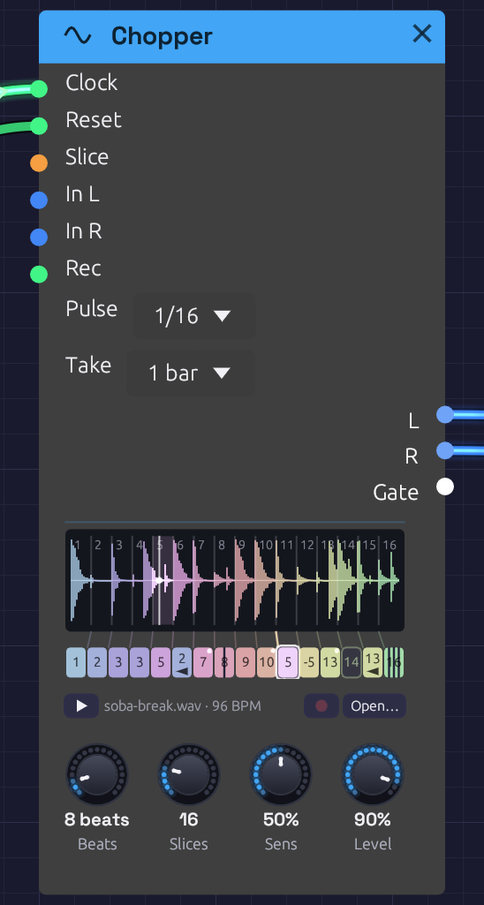
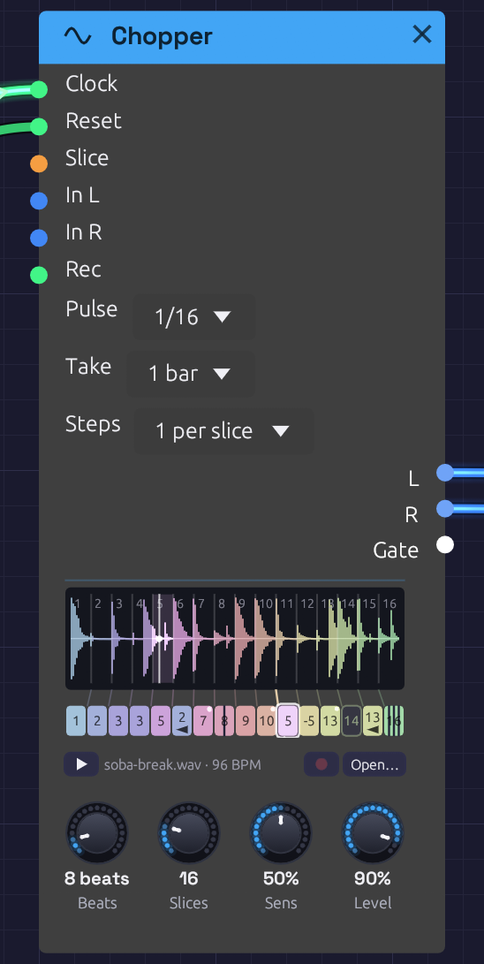
[Phase 14] Chopper: a pattern longer than the break (Steps)
- Steps (1 to 4 per slice) makes the row a pass over the break for each,
  wrapping over it again; a step past the first pass plays its slice in
  that pass until told otherwise, so an unedited row still plays the
  break back seamlessly. Never more than 64 steps
- Appended after Rec Button, defaulting to 1 per slice: old patches play
  as before
- The face draws a line of steps per pass under the same slices, and the
  time tick rides the line playing; the step menu gains "Same as pass n"
  and shuffles only its own pass
- Cut-Up's break frame grows for the new row; manual documents Steps

Closes #201

Claude-Session: https://claude.ai/code/session_012S1cpHsVYgDZKhaCwL9Naf

diff --git a/src/graph/chopper_display.rs b/src/graph/chopper_display.rs
@@ -15,6 +15,9 @@
 //!   die's dot in its corner, as big as the chance.
 //! - While it plays, the slice heard glows on the waveform, a playhead
 //!   rides it, and a tick on the row shows where the loop is in time.
+//! - A row of two, three or four steps per slice wraps into a line for each
+//!   pass over the break, the fan joining the slices to the first; the
+//!   lines below read straight down as the same slices' later turns.
 //!
 //! Click a step to rest it; drag it up or down to choose its slice;
 //! Shift+click repeats, Alt+click reverses, Ctrl+click sets its chance, and
@@ -178,7 +181,12 @@ pub fn chopper_display(ui: &mut egui::Ui, node_id: NodeId, graph: &SynthGraph, u
     let width = 4.0 * 44.0 * z + 3.0 * gap - 8.0 * z;
     let wave_height = 58.0 * z;
     let fan_height = 9.0 * z;
-    let row_height = 17.0 * z;
+    // A line of steps for each pass over the break
+    let passes = Chopper::passes(params.value(Chopper::PARAM_PASSES), count);
+    let steps = passes * count;
+    let line_height = if passes > 1 { 14.0 * z } else { 17.0 * z };
+    let line_gap = 4.0 * z;
+    let row_height = passes as f32 * line_height + (passes - 1) as f32 * line_gap;
 
     ui.add_space(8.0 * z);
     let (rect, response) = ui.allocate_exact_size(Vec2::new(width, wave_height + fan_height + row_height), Sense::hover());
@@ -385,14 +393,17 @@ pub fn chopper_display(ui: &mut egui::Ui, node_id: NodeId, graph: &SynthGraph, u
 
     // The fan: each slice to its step
     let cell_width = row_rect.width() / count as f32;
-    let cell_x = |step: usize| row_rect.left() + step as f32 * cell_width;
+    let cell_x = |step: usize| row_rect.left() + (step % count) as f32 * cell_width;
+    let line_top = |line: usize| row_rect.top() + line as f32 * (line_height + line_gap);
+    // The slice playing, whichever pass it's in
+    let slot_playing = playing.step.filter(|_| playing.phase.is_some()).map(|step| step % count);
     let fan_top = wave_rect.bottom();
     let fan_bottom = row_rect.top();
     for index in 0..count {
         let (from, _) = span_of(index);
         let top = Pos2::new(x_at(from), fan_top);
         let bottom = Pos2::new(cell_x(index) + 0.5 * z, fan_bottom);
-        let lit = playing.step == Some(index) && playing.phase.is_some();
+        let lit = slot_playing == Some(index);
         let color = slice_color(index, count).gamma_multiply(if lit { 0.9 } else { 0.25 });
         if index > 0 || slices.is_marked() {
             painter.line_segment([top, bottom], Stroke::new(if lit { 1.2 * z } else { 0.8 * z }, color));
@@ -401,11 +412,11 @@ pub fn chopper_display(ui: &mut egui::Ui, node_id: NodeId, graph: &SynthGraph, u
 
     // The steps
     let mut edits = Vec::new();
-    for index in 0..count.min(MAX_STEPS) {
+    for index in 0..steps.min(MAX_STEPS) {
         let step = params.step(index);
         let chance = params.chance(index);
         let slice = step.slice_of(index, count);
-        let cell = Rect::from_min_size(Pos2::new(cell_x(index), row_rect.top()), Vec2::new(cell_width, row_rect.height())).shrink2(Vec2::new(0.5 * z, 0.0));
+        let cell = Rect::from_min_size(Pos2::new(cell_x(index), line_top(index / count)), Vec2::new(cell_width, line_height)).shrink2(Vec2::new(0.5 * z, 0.0));
         let here = playing.step == Some(index) && playing.phase.is_some();
         draw_step(&painter, cell, step, slice, count, chance, here, z);
 
@@ -442,25 +453,29 @@ pub fn chopper_display(ui: &mut egui::Ui, node_id: NodeId, graph: &SynthGraph, u
             ui.ctx().data_mut(|data| data.insert_temp(drag_id, (from, moved)));
             let to = (from + (moved / DRAG_PER_SLICE).round()).rem_euclid(count as f32) as usize;
             if to != slice {
-                let next = Step { plays: true, slice: own_or(index, to), ..step };
+                let next = Step { plays: true, slice: own_or(index, to, count), ..step };
                 edits.push(edit(node_id, format!("{what} plays slice {}", to + 1), vec![params.set_step(index, next)]));
             }
         }
 
+        let pass = if passes > 1 { format!(" (pass {} of {passes})", index / count + 1) } else { String::new() };
         let hint = format!(
-            "{what}: {}\nClick to {} · drag up or down for another slice\nShift+click repeats · Alt+click reverses · Ctrl+click chance",
+            "{what}{pass}: {}\nClick to {} · drag up or down for another slice\nShift+click repeats · Alt+click reverses · Ctrl+click chance",
             describe(step, slice, chance),
             if step.plays { "rest" } else { "play" },
         );
         let response = response.on_hover_text(hint);
-        response.context_menu(|ui| step_menu(ui, node_id, &params, index, step, chance, count, &mut edits));
+        response.context_menu(|ui| step_menu(ui, node_id, &params, index, step, chance, count, steps, &mut edits));
     }
 
-    // Where the loop is, in time
+    // Where the loop is, in time, under the line of the pass it's in
     if let Some(phase) = playing.phase {
-        let x = row_rect.left() + phase * row_rect.width();
+        let along = phase.clamp(0.0, 1.0) * passes as f32;
+        let line = (along as usize).min(passes - 1);
+        let x = row_rect.left() + (along - line as f32) * row_rect.width();
+        let bottom = line_top(line) + line_height;
         painter.add(Shape::convex_polygon(
-            vec![Pos2::new(x - 2.5 * z, row_rect.bottom() + 3.0 * z), Pos2::new(x + 2.5 * z, row_rect.bottom() + 3.0 * z), Pos2::new(x, row_rect.bottom())],
+            vec![Pos2::new(x - 2.5 * z, bottom + 3.0 * z), Pos2::new(x + 2.5 * z, bottom + 3.0 * z), Pos2::new(x, bottom)],
             Color32::WHITE.gamma_multiply(0.8),
             Stroke::NONE,
         ));
@@ -542,9 +557,10 @@ pub fn chopper_display(ui: &mut egui::Ui, node_id: NodeId, graph: &SynthGraph, u
     responses
 }
 
-/// The slice field for step `index` playing slice `to`: 0 for its own.
-fn own_or(index: usize, to: usize) -> u8 {
-    if to == index { 0 } else { (to + 1) as u8 }
+/// The slice field for step `index` playing slice `to` of `count`: 0 for
+/// its own, the slice whose turn it takes.
+fn own_or(index: usize, to: usize, count: usize) -> u8 {
+    if to == index % count.max(1) { 0 } else { (to + 1) as u8 }
 }
 
 /// A step, said in words.
@@ -616,7 +632,7 @@ fn draw_step(painter: &egui::Painter, cell: Rect, step: Step, slice: usize, coun
 
 /// A step's right-click menu: everything about how it plays.
 #[allow(clippy::too_many_arguments)]
-fn step_menu(ui: &mut egui::Ui, node_id: NodeId, params: &Params, index: usize, step: Step, chance: f32, count: usize, edits: &mut Vec<SynthResponse>) {
+fn step_menu(ui: &mut egui::Ui, node_id: NodeId, params: &Params, index: usize, step: Step, chance: f32, count: usize, steps: usize, edits: &mut Vec<SynthResponse>) {
     let what = format!("Step {}", index + 1);
     ui.label(egui::RichText::new(&what).strong());
     ui.separator();
@@ -665,7 +681,7 @@ fn step_menu(ui: &mut egui::Ui, node_id: NodeId, params: &Params, index: usize, 
         for slice in 0..count {
             let text = egui::RichText::new(format!("{:>2}", slice + 1)).color(slice_color(slice, count));
             if ui.selectable_label(current == slice, text).clicked() {
-                set(format!("{what} plays slice {}", slice + 1), Step { plays: true, slice: own_or(index, slice), ..step }, edits);
+                set(format!("{what} plays slice {}", slice + 1), Step { plays: true, slice: own_or(index, slice, count), ..step }, edits);
                 ui.close_menu();
             }
             if (slice + 1) % 8 == 0 {
@@ -674,21 +690,33 @@ fn step_menu(ui: &mut egui::Ui, node_id: NodeId, params: &Params, index: usize, 
         }
     });
     ui.separator();
-    if ui.add_enabled(!step.is_plain(index, count) || chance > 0.0, egui::Button::new(format!("Back to slice {}, as it was", index + 1))).clicked() {
+    if ui.add_enabled(!step.is_plain(index, count) || chance > 0.0, egui::Button::new(format!("Back to slice {}, as it was", index % count + 1))).clicked() {
         edits.push(edit(node_id, format!("Reset {what}"), vec![params.set_step(index, Step::DEFAULT), params.set_chance(index, 0.0)]));
         ui.close_menu();
     }
     ui.separator();
-    // The whole row
-    if ui.button("Shuffle the slices").on_hover_text("Every step plays a slice at random, each slice once").clicked() {
+    // The pass it's in, and the whole row
+    let first = index / count * count;
+    let pass = first / count + 1;
+    if first > 0 {
+        let before = pass - 1;
+        if ui.button(format!("Same as pass {before}")).on_hover_text("Copies every step of the pass before into this one, to vary from there").clicked() {
+            let mut changes: Vec<(String, f32)> = (first..first + count).map(|k| params.set_step(k, params.step(k - count))).collect();
+            changes.extend((first..first + count).map(|k| params.set_chance(k, params.chance(k - count))));
+            edits.push(edit(node_id, format!("Pass {pass} as pass {before}"), changes));
+            ui.close_menu();
+        }
+    }
+    let shuffle = if steps > count { format!("Shuffle the slices in pass {pass}") } else { "Shuffle the slices".to_string() };
+    if ui.button(&shuffle).on_hover_text("Every step plays a slice at random, each slice once").clicked() {
         let order = shuffled(count, ui.input(|i| i.time).to_bits());
-        let changes = (0..count).map(|k| params.set_step(k, Step { plays: true, slice: own_or(k, order[k]), ..params.step(k) })).collect();
-        edits.push(edit(node_id, "Shuffle the slices", changes));
+        let changes = (first..first + count).map(|k| params.set_step(k, Step { plays: true, slice: own_or(k, order[k - first], count), ..params.step(k) })).collect();
+        edits.push(edit(node_id, shuffle, changes));
         ui.close_menu();
     }
     if ui.button("Reset every step").on_hover_text("Back to the break as it was: each step its own slice, once, forwards").clicked() {
-        let mut changes: Vec<(String, f32)> = (0..count).map(|k| params.set_step(k, Step::DEFAULT)).collect();
-        changes.extend((0..count).map(|k| params.set_chance(k, 0.0)));
+        let mut changes: Vec<(String, f32)> = (0..steps).map(|k| params.set_step(k, Step::DEFAULT)).collect();
+        changes.extend((0..steps).map(|k| params.set_chance(k, 0.0)));
         edits.push(edit(node_id, "Reset every step", changes));
         ui.close_menu();
     }
@@ -751,8 +779,11 @@ mod tests {
 
     #[test]
     fn test_a_step_names_its_own_slice_as_none() {
-        assert_eq!(own_or(3, 3), 0);
-        assert_eq!(own_or(3, 0), 1);
-        assert_eq!(Step { slice: own_or(5, 9), ..Step::DEFAULT }.slice_of(5, 16), 9);
+        assert_eq!(own_or(3, 3, 16), 0);
+        assert_eq!(own_or(3, 0, 16), 1);
+        assert_eq!(Step { slice: own_or(5, 9, 16), ..Step::DEFAULT }.slice_of(5, 16), 9);
+        // A step in the second pass owns the slice whose turn it takes
+        assert_eq!(own_or(19, 3, 16), 0);
+        assert_eq!(Step { slice: own_or(19, 4, 16), ..Step::DEFAULT }.slice_of(19, 16), 4);
     }
 }

diff --git a/src/modules/chopper.rs b/src/modules/chopper.rs
@@ -14,6 +14,12 @@
 //! so the break varies itself, as a chopped break does in a producer's
 //! hands.
 //!
+//! The row can be two, three or four steps per slice, longer than the
+//! break: it wraps over the break again, a pass at a time, so a 2-bar
+//! break plays under a 4-bar pattern whose second half is a variation of
+//! its own. Step 17 of 32 over 16 slices takes slice 1's turn in the
+//! second pass, and plays slice 1 until it's told otherwise.
+//!
 //! Every start and stop is a short crossfade. A slice played through runs
 //! on past its end into the sound after it while the next fades in, so an
 //! unedited pattern at the break's own tempo crossfades the recording into
@@ -60,8 +66,16 @@ use super::sequencer::StepTimer;
 /// The Chopper's module ID.
 pub const CHOPPER_ID: &str = "source.chopper";
 
-/// The most steps in the row: one per slice.
+/// The most steps in the row: one per slice, or across up to
+/// [`MAX_PASSES`] passes of fewer slices.
 pub const MAX_STEPS: usize = MAX_SLICES;
+
+/// The Steps menu: how many steps the row has for each slice, a pass over
+/// the break for each.
+pub const PASSES: &[&str] = &["1 per slice", "2 per slice", "3 per slice", "4 per slice"];
+
+/// The most passes over the break the row makes.
+pub const MAX_PASSES: usize = 4;
 
 /// The most times a step repeats its slice.
 pub const MAX_REPEAT: u8 = 4;
@@ -138,7 +152,7 @@ impl Step {
 
     /// Whether it plays its own slice, once, forwards, unchanged.
     pub fn is_plain(self, index: usize, count: usize) -> bool {
-        self.plays && !self.reverse && self.repeat == 1 && self.pitch == 0 && self.slice_of(index, count) == index
+        self.plays && !self.reverse && self.repeat == 1 && self.pitch == 0 && self.slice_of(index, count) == index % count.max(1)
     }
 }
 
@@ -280,6 +294,8 @@ impl Voice {
 /// - **Sensitivity** (0–1): how strong a hit must be to get a marker, when
 ///   sliced by Onsets. The editor finds them; here it's only kept.
 /// - **Step 01–64**, **Chance 01–64**: the row (see [`Step`]).
+/// - **Steps** (1 to 4 per slice): how long the row is, in passes over the
+///   break; never more than 64 steps.
 /// - **Take** (Free, 1–16 bars): with a Clock running, a take starts on the
 ///   next bar and lasts that long.
 /// - **Rec Button**: the face's Rec, pressed to start a take and again to stop.
@@ -354,7 +370,10 @@ impl Chopper {
     // Recording, after the row, so patches from before it load unchanged
     pub const PARAM_TAKE: usize = Self::PARAM_CHANCE + MAX_STEPS;
     pub const PARAM_REC_BUTTON: usize = Self::PARAM_TAKE + 1;
-    pub const PARAM_COUNT: usize = Self::PARAM_REC_BUTTON + 1;
+    // The row's length, after recording, so patches from before it load
+    // unchanged: a step per slice
+    pub const PARAM_PASSES: usize = Self::PARAM_REC_BUTTON + 1;
+    pub const PARAM_COUNT: usize = Self::PARAM_PASSES + 1;
 
     /// Where the readout holds the playhead: its place and level, packed as
     /// the Sampler packs them ([`Sampler::pack_playhead`]).
@@ -363,7 +382,8 @@ impl Chopper {
     pub const READOUT_STEP: usize = 1;
     /// The slice it played, from 1.
     pub const READOUT_SLICE: usize = 2;
-    /// Where the loop is, 0 to 1, or -1 waiting for a pulse.
+    /// Where the row is, 0 to 1 across all its passes, or -1 waiting for a
+    /// pulse.
     pub const READOUT_PHASE: usize = 3;
     /// The recorder, where the Sampler shows it, so the face reads both alike.
     pub const READOUT_REC_STATE: usize = Sampler::READOUT_REC_STATE;
@@ -427,6 +447,10 @@ impl Chopper {
         parameters.push(
             ParameterDefinition::new("rec_button", "Rec Button", 0.0, 1.0, 0.0, ParameterDisplay::on_off())
                 .describe("The Rec button on the face: pressed to start a take, and again to stop it"),
+        );
+        parameters.push(
+            ParameterDefinition::choice("passes", "Steps", PASSES, 0)
+                .describe("How many steps the row has for each slice: past the first pass it wraps over the break again, so 2 per slice plays a 2-bar break under a 4-bar pattern whose second half is edited on its own"),
         );
         debug_assert_eq!(parameters.len(), Self::PARAM_COUNT);
 
@@ -495,6 +519,13 @@ impl Chopper {
     /// Slices setting cuts it, at least into two.
     pub fn slices(value: f32, markers: &[f32]) -> Slices {
         Slices::from_param(value.max(2.0), markers, 0.0, 1.0).unwrap_or(Slices::equal(2))
+    }
+
+    /// How many passes over `count` slices the row makes: as many as Steps
+    /// says, while they fit in [`MAX_STEPS`].
+    pub fn passes(value: f32, count: usize) -> usize {
+        let wanted = (value.round().max(0.0) as usize + 1).min(MAX_PASSES);
+        wanted.min(MAX_STEPS / count.max(1)).max(1)
     }
 
     /// The tempo, in BPM, at which a recording `seconds` long plays as a
@@ -745,6 +776,8 @@ impl DspModule for Chopper {
             self.retire(room);
         }
         let slices = Self::slices(params[Self::PARAM_SLICES], self.markers.as_slice());
+        let count = slices.count();
+        let passes = Self::passes(params.get(Self::PARAM_PASSES).copied().unwrap_or(0.0), count);
         self.level.set_target(params[Self::PARAM_LEVEL].clamp(0.0, 1.0));
         let end_fade = (FADE_SECONDS * self.sample_rate) as f64;
 
@@ -770,11 +803,14 @@ impl DspModule for Chopper {
                 let pulse = self.pulse_samples(pulse_beats, context);
                 let pass = (beat / loop_beats).floor();
                 let phase = (beat / loop_beats - pass).clamp(0.0, 1.0);
-                self.phase = Some(phase as f32);
+                // Which pass of the row this is, when it's longer than the break
+                let row_pass = (pass as u64 % passes as u64) as usize;
+                self.phase = Some(((row_pass as f64 + phase) / passes as f64) as f32);
 
-                let index = slices.at(phase, 0.0, 1.0).unwrap_or(0);
-                let (from, to) = slices.span(index, 0.0, 1.0);
-                let step = Step::decode(params[Self::step_param(index.min(MAX_STEPS - 1))]);
+                let slot = slices.at(phase, 0.0, 1.0).unwrap_or(0);
+                let index = (row_pass * count + slot).min(MAX_STEPS - 1);
+                let (from, to) = slices.span(slot, 0.0, 1.0);
+                let step = Step::decode(params[Self::step_param(index)]);
                 let repeat = step.repeat.max(1);
                 let along = ((phase - from) / (to - from).max(1e-9)).clamp(0.0, 1.0);
                 let hit = ((along * repeat as f64) as u8).min(repeat - 1);
@@ -1048,7 +1084,8 @@ mod tests {
         assert_eq!(params[Chopper::chance_param(0)].name, "Chance 01");
         assert_eq!(params[Chopper::chance_param(63)].name, "Chance 64");
         assert_eq!(params[Chopper::PARAM_TAKE].name, "Take");
-        assert_eq!(params[Chopper::PARAM_COUNT - 1].name, "Rec Button");
+        assert_eq!(params[Chopper::PARAM_REC_BUTTON].name, "Rec Button");
+        assert_eq!(params[Chopper::PARAM_COUNT - 1].name, "Steps");
     }
 
     #[test]
@@ -1153,6 +1190,48 @@ mod tests {
         assert_eq!(gates.len(), 15, "{gates:?}");
         assert!(!gates.iter().any(|&at| at.abs_diff(turn) < 10));
         assert!(largest_step(&played.left) < CLICK);
+    }
+
+    #[test]
+    fn test_a_row_longer_than_the_break_plays_it_again_each_pass_its_own() {
+        // 32 steps over 16 slices: step 17 rests, so the second pass's first
+        // slice is silent and the first and third passes' aren't
+        let two = params(&[(Chopper::PARAM_PASSES, 1.0)]);
+        let rest = with_step(two.clone(), 16, Step { plays: false, ..Step::DEFAULT });
+        let bar = 16 * SIXTEENTH;
+        let mut row = chopper(ramp());
+        let played = play(&mut row, &rest, 6.0, SIXTEENTH, None);
+        assert!(played.left[300..SIXTEENTH - 300].iter().all(|v| v.abs() > 0.1), "the first pass plays slice 1");
+        assert!(played.left[bar + 300..bar + SIXTEENTH].iter().all(|v| v.abs() < 1e-6), "the second pass rests on it");
+        assert!(played.left[2 * bar + 300..2 * bar + SIXTEENTH - 300].iter().all(|v| v.abs() > 0.1), "the row starts over");
+        assert_eq!(row.readout(&rest).unwrap().values[Chopper::READOUT_STEP], 16.0, "the last step of the row heard last");
+
+        // Unedited, two passes play the break back as one does
+        let source = sine(441.0);
+        let original = source.left().to_vec();
+        let played = play(&mut chopper(source), &two, 4.0, SIXTEENTH, None);
+        let worst = played.left[SETTLED..]
+            .iter()
+            .enumerate()
+            .map(|(n, &out)| (out - original[(n + SETTLED) % original.len()]).abs())
+            .fold(0.0, f32::max);
+        assert!(worst < 1e-3, "strays {worst} from the recording");
+    }
+
+    #[test]
+    fn test_a_step_per_slice_is_the_default_and_the_row_never_passes_64_steps() {
+        let chopper = Chopper::new();
+        assert_eq!(chopper.parameters()[Chopper::PARAM_PASSES].name, "Steps");
+        assert_eq!(chopper.parameters()[Chopper::PARAM_PASSES].default, 0.0);
+        assert_eq!(Chopper::passes(0.0, 16), 1);
+        assert_eq!(Chopper::passes(1.0, 16), 2);
+        assert_eq!(Chopper::passes(3.0, 16), 4);
+        assert_eq!(Chopper::passes(3.0, 32), 2);
+        assert_eq!(Chopper::passes(3.0, 64), 1);
+        assert_eq!(Chopper::passes(9.0, 2), MAX_PASSES);
+        // A step past the first pass plays its slice in the pass it's in
+        assert_eq!(Step::DEFAULT.slice_of(17, 16), 1);
+        assert!(Step::DEFAULT.is_plain(17, 16));
     }
 
     #[test]

diff --git a/docs/src/modules/sources/chopper.md b/docs/src/modules/sources/chopper.md
@@ -36,6 +36,14 @@ Each step can be told to play it differently:
 
 A rest remembers what it was, so clicking it again plays it as before. Right-click a step for all of these, **Back to slice n, as it was**, **Shuffle the slices** (every step a slice at random, each slice once) and **Reset every step**. Every edit is a step you can undo.
 
+## A pattern longer than the break
+
+A chopped break often runs under a longer pattern: two bars of break, four bars of pattern, the second half a variation on the first. **Steps** sets how long the row is: **1 per slice** (the row as above), or **2**, **3** or **4 per slice**. Past the first pass the row wraps over the break again, and each extra step starts out playing its slice in the next pass, so left alone it still plays the break as recorded, round and round.
+
+The face shows a line of steps for each pass, each line under the same slices, so a step reads straight down to the same slice's turn in the other passes. Edit any of them on its own. A step past the first pass has two more things on its right-click menu: **Same as pass n** copies the pass above into its own, to vary from there, and **Shuffle the slices in pass n** shuffles only its own line. **Reset every step** resets the whole row.
+
+The row has at most 64 steps, so more slices allow fewer passes: up to 16 slices take all four, up to 21 three, up to 32 two, and more than that one.
+
 ## Loading a break
 
 Load a file as on the Sampler: click **Open…**, or the empty panel, or drag a WAV, MP3 or Ogg file onto the node. While a dragged file is over the node you hear it, so you can audition files before you drop one. It plays once when it loads, so you hear what you chose, and **▶** plays it again at any time, dry, beside the patch. **Alt-click** a slice to hear just that slice.
@@ -85,6 +93,7 @@ Cut at the hits, the steps stay evenly spaced under the waveform but the slices 
 | **Slices** | 2 – 64, Onsets | 16 | Equal slices, or one at each hit. Each slice gets a step |
 | **Sens** (Sensitivity) | 0 – 100% | 50% | Sliced by **Onsets**, how strong a hit must be to get a marker |
 | **Level** | 0 – 100% | 80% | Output level |
+| **Steps** | 1 – 4 per slice | 1 per slice | How long the row is: a pass over the break for each (see [A pattern longer than the break](#a-pattern-longer-than-the-break)) |
 | **Take** | Free, 1 – 16 bars | 1 bar | In bars, with a Clock running, a take starts on the next bar and lasts that long, and sets **Beats** to match |
 
 ## Tips
